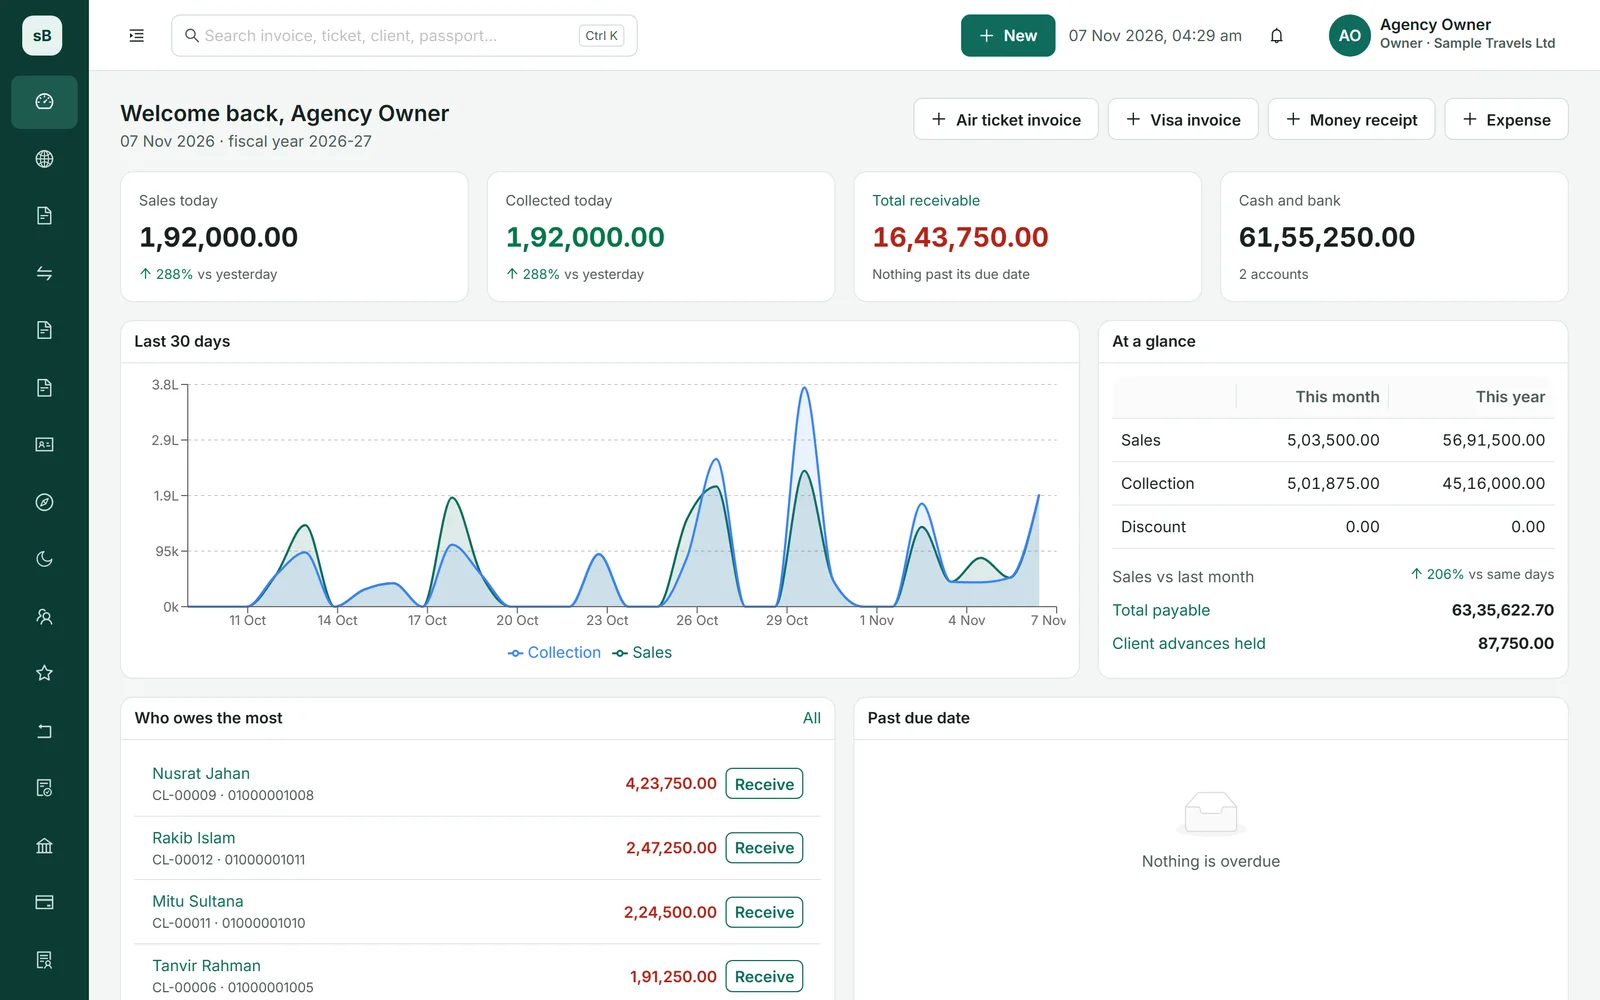
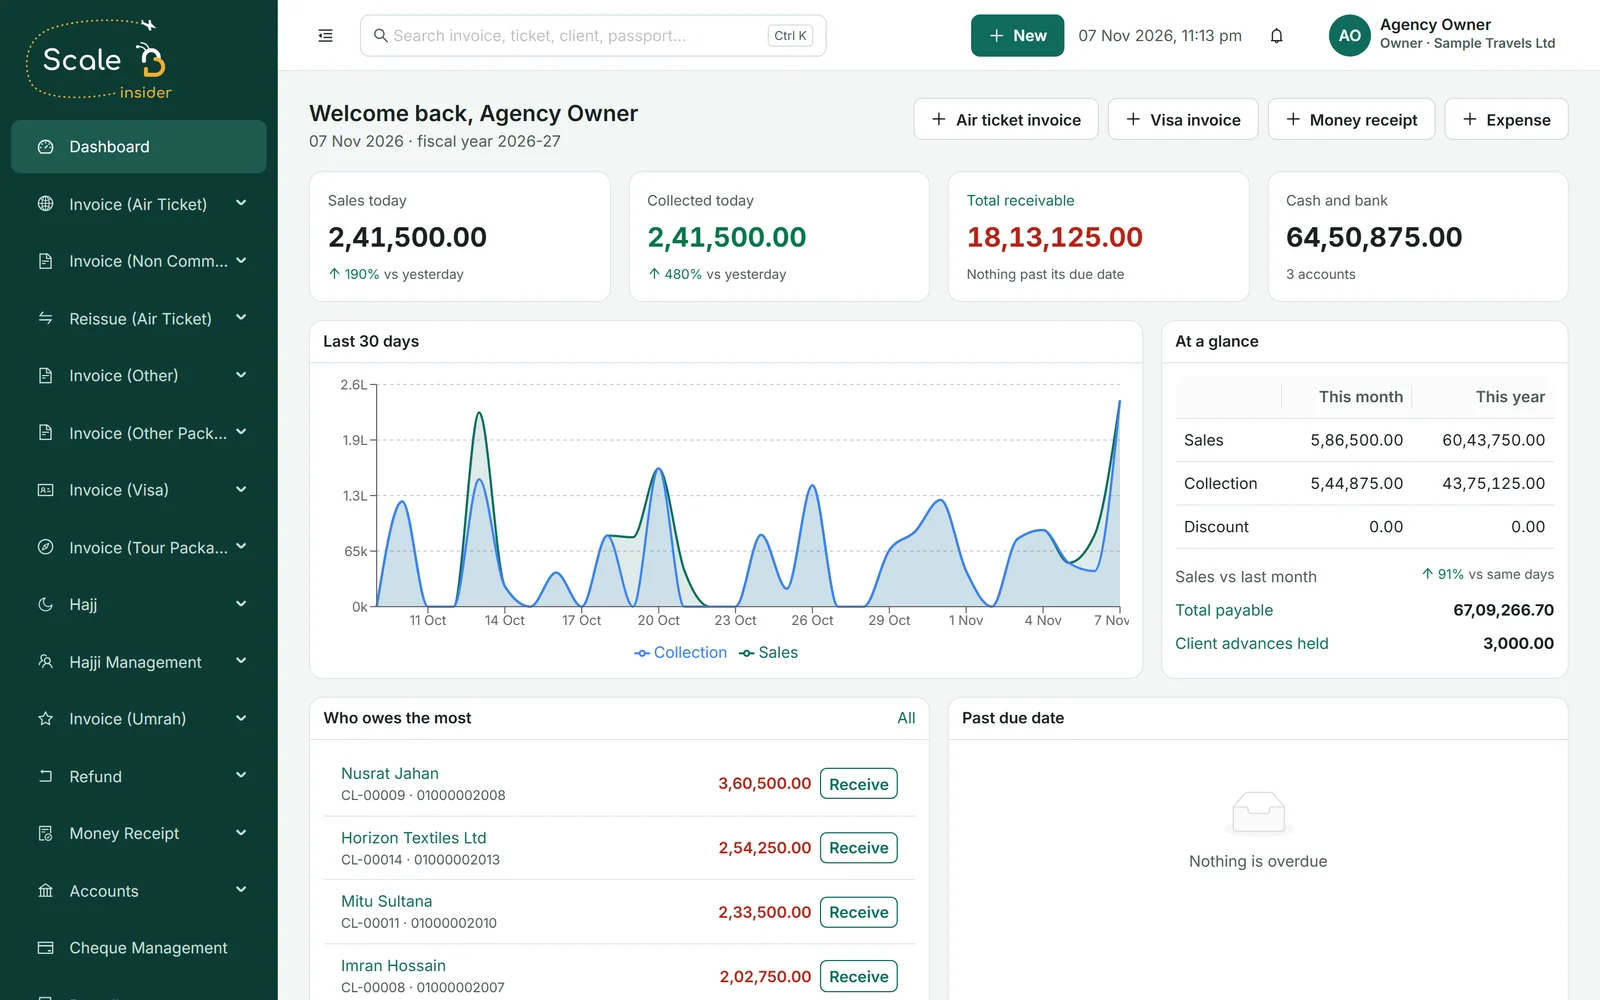
Refresh ScaleB Insider screenshots, cover and FAQ
Retake the screenshots from the new Insider interface with its new
logo, use the Insider home page as the Work card cover and update the
FAQ for the 14 day free trial and plans from 1,500 taka a month.

diff --git a/app/work/insider/page.tsx b/app/work/insider/page.tsx
@@ -47,8 +47,8 @@ const screens = [
 const questions = [
   { question: "Who is ScaleB Insider for?", answer: "Travel agencies that sell air tickets and visas and want their sales, refunds, invoices and accounts in one place." },
   { question: "Do I need to install anything?", answer: "No. It is a web app that runs in your browser on a computer or a phone." },
-  { question: "Can I see it before deciding?", answer: "Yes. We give each agency a personal demo. Send the form below and we will call you to set it up." },
-  { question: "How much does it cost?", answer: "We do not publish prices yet. Ask us during your demo and we will talk through what fits your agency." },
+  { question: "Can I try it before deciding?", answer: "Yes. Every plan starts with a 14 day free trial and no card is needed. If you prefer, send the form below and we will walk you through it in person." },
+  { question: "How much does it cost?", answer: "Plans start at ৳1,500 a month. You can see every plan and start your trial on insider.scalebbd.com." },
   { question: "Can each staff member have their own access?", answer: "Yes. Roles and permissions let you decide what each person can see and do." },
   { question: "Will invoices show my agency's details?", answer: "Yes. PDF invoices carry your agency's logo and address." },
 ];

diff --git a/app/site-data.ts b/app/site-data.ts
@@ -78,6 +78,7 @@ export const projects: { title: string; category: string; type: string; descript
     category: "Our products",
     type: "Our product · Web app",
     description: "Travel agency management and accounting software. One set of books for tickets, visas, refunds and invoices.",
+    image: "/work/insider-cover.jpg",
     accent: "amber",
     page: "/work/insider/",
   },
